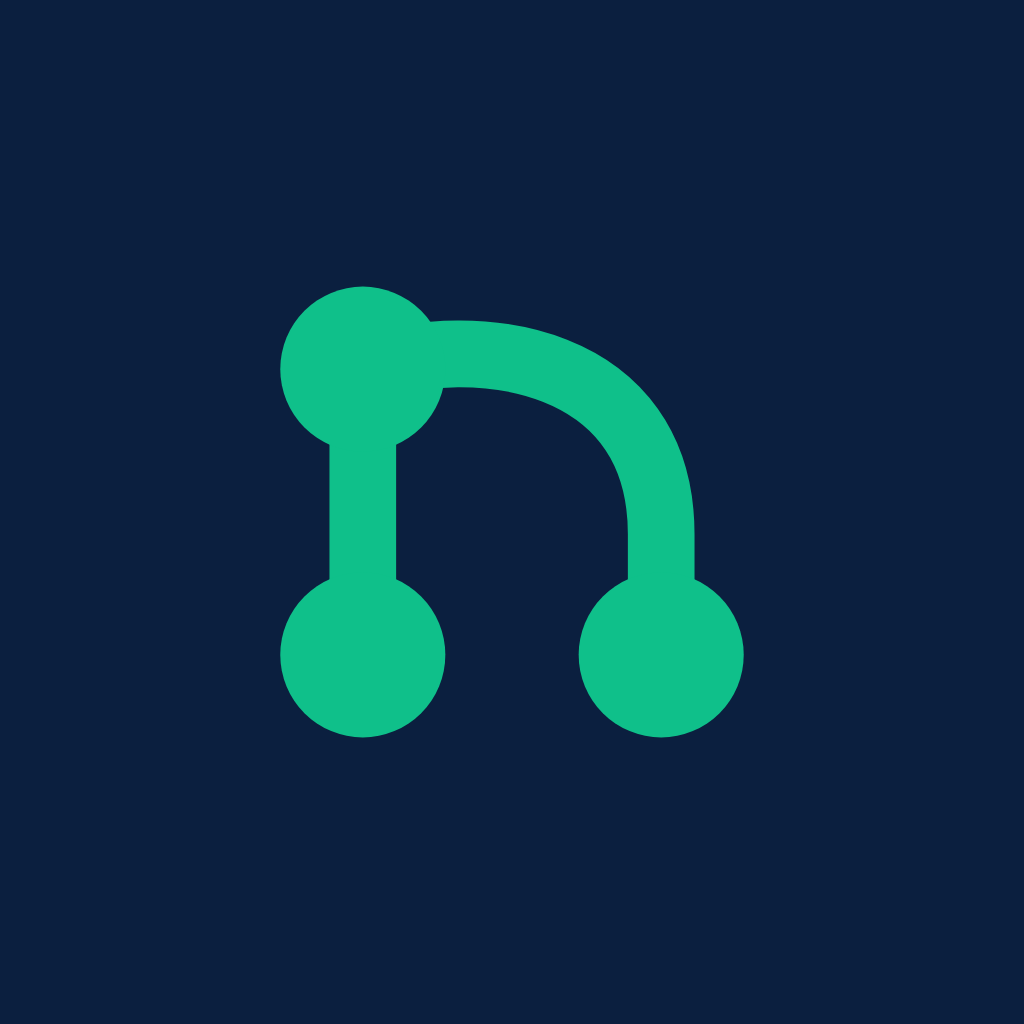
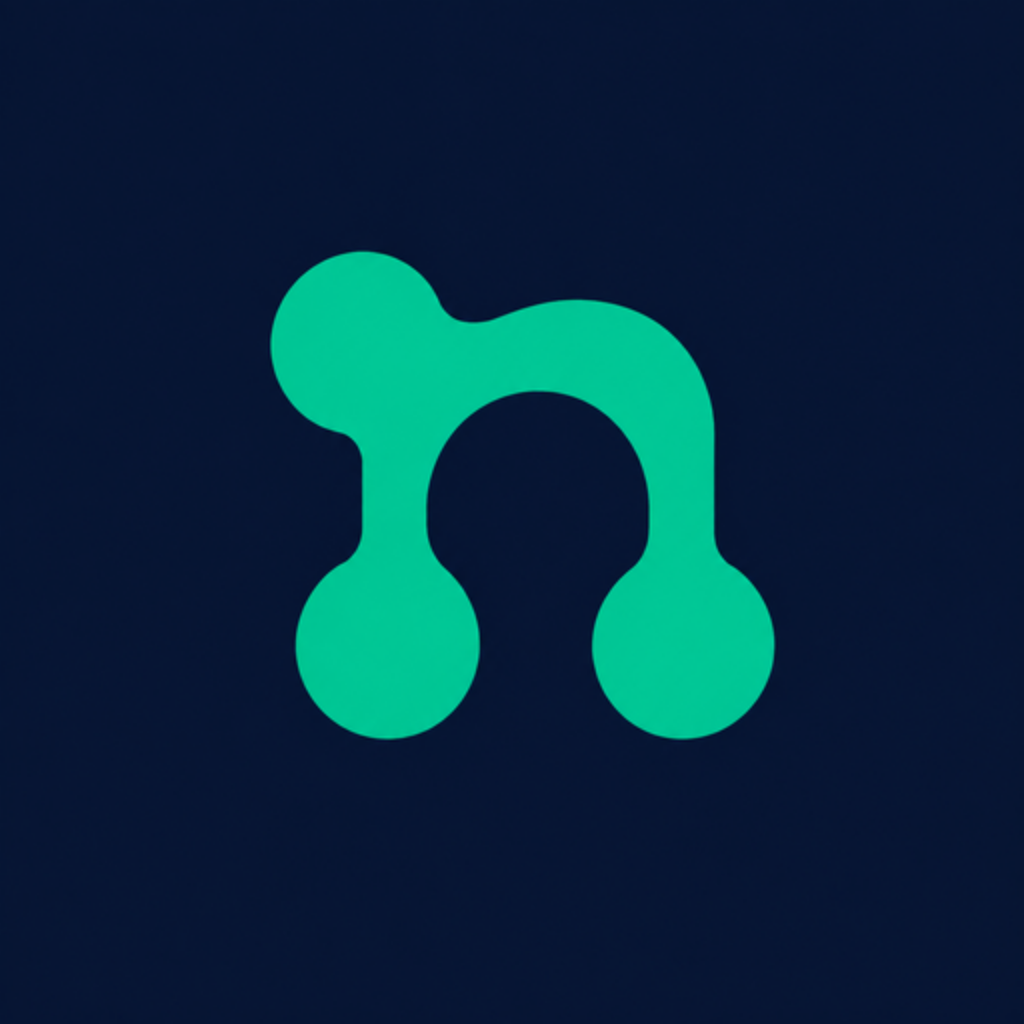
Use the real NestConnect artwork everywhere
The mark, the lockup and the app tile arrive from design as three PNGs, and
they now live in `packages/design/brand` as the only source. Every size the
apps and the browser need is cut out of them by `tools/render-logo.mjs`: a
1024 app icon, an Android foreground padded to survive whatever mask a
launcher crops it with, three favicons, and a copy for each app to bundle.

Two things the generator does that a resize wouldn't. It trims to the ink —
the mark sits in 1254 points of canvas but is only 910 wide, so scaling it
untrimmed gives a favicon of mostly nothing, and every crop is computed from
the alpha channel rather than guessed. And it pads on purpose, because
Android will crop an adaptive icon to a circle on one phone and a squircle on
the next.

The tile behind the mark goes navy on both platforms. It was the UI green
with the old mark knocked out of it in white, and the new mark is green — the
badge in the web's rail and the tile on the sign-in screen would each have
been a green square with nothing on it. Navy is the ground the app icon
already stands on, so a home screen and a sign-in screen now show the same
object.

The colours are sampled from the artwork, not typed from memory: the green is
the commonest opaque pixel in the mark, the navy the tile's own fill.

This replaces the geometry I drew from the images when they hadn't reached
this machine as files. That was a reproduction and said so; this is the
artwork.

diff --git a/packages/design/logo.ts b/packages/design/logo.ts
@@ -1,60 +1,34 @@
 /**
- * The Nest Connect mark, as geometry rather than a picture.
+ * The brand's own colours, and where its artwork lives.
  *
- * An `n` drawn in one thick stroke with a node at each of its three ends: the
- * shoulder of the letter is also the arc between two connected points, which is
- * the product in one shape — separate places, joined. It reads at 16 points and
- * at 1024, which a mark has to, because it is the favicon, the app icon, the
- * splash and the thing on the sign-in screen all at once.
+ * The mark itself is a picture, not geometry — `brand/mark.png` and its two
+ * siblings are the files as delivered, and everything the apps and the browser
+ * use is derived from them by `tools/render-logo.mjs`. That indirection is the
+ * point: before it, the web drew a chat bubble with an amber dot and the phone
+ * drew three nested bowls, two hand-maintained logos for one product, neither
+ * aware of the other. Now there is one set of source files and every size is a
+ * build product of them.
  *
- * ## Why it lives here and not as a file
- *
- * The web and the phone both draw it, at half a dozen sizes, in two themes, and
- * before this there were *two different logos* — a speech bubble with an amber
- * dot on the web, three nested bowls on mobile. Neither knew about the other.
- * One set of numbers is what stops that happening again, and geometry travels
- * where a PNG cannot: `react-native-svg` and the DOM both take these strings
- * unchanged, and the raster assets are generated from them rather than drawn
- * separately and left to drift.
- *
- * ## The numbers
- *
- * Everything is a 100×100 box, sized so the mark's bounding box is centred in
- * it — so a caller can scale it to any size and it stays optically middled
- * without a correction. The proportions are the mark's own and are not free
- * parameters: the stroke is 0.40 of a node's diameter, the two feet stand 1.81
- * diameters apart, and the top node sits 1.73 above them. Change one and it
- * stops being the logo.
- */
-
-/** The stroke's centreline: the left stem, and the shoulder that becomes the
- *  right stem. Two subpaths, so the corner at the top node stays a join of two
- *  round caps rather than a mitre. */
-export const MARK_STEM = "M26.5 27.5V72.5";
-export const MARK_ARCH = "M26.5 27.5C44.5 21.5 73.5 25.5 73.5 53.5V72.5";
-
-/** Where the three nodes sit, in the same box. */
-export const MARK_NODES = [
-  { cx: 26.5, cy: 27.5 },
-  { cx: 26.5, cy: 72.5 },
-  { cx: 73.5, cy: 72.5 },
-] as const;
-
-/** A node's radius, and the width of the stroke between them. The stroke is
- *  deliberately narrower — the waist where one meets the other is what makes
- *  them read as joined points rather than as a single fat letter. */
-export const MARK_NODE_R = 13;
-export const MARK_STROKE = 10.5;
-
-/**
- * The brand's own colours, which are not the UI's.
- *
- * `colors.brand` is tuned to carry small green text and a filled button against
- * an app surface; a logo is a logo and keeps its own value in every context,
- * including on someone else's white page. The navy is the wordmark's, and the
- * ground the app icon stands on.
+ * These values are sampled from that artwork rather than typed from memory —
+ * the green is the commonest opaque pixel in the mark, the navy is the tile the
+ * app icon stands on.
  */
 export const BRAND = {
-  green: "#0FC08A",
-  navy: "#0B1F3F",
+  /** The mark's green. Not `colors.brand`, which is tuned for small UI text and
+   *  filled buttons against an app surface; a logo keeps its own value in every
+   *  context, including on somebody else's white page. */
+  green: "#02D6A2",
+  /** The ground under the app icon, and under the mark wherever it needs a tile
+   *  of its own — the web's rail badge, the Apple touch icon. */
+  navy: "#071634",
+} as const;
+
+/**
+ * Where the derived artwork ends up, for anything that needs to name a file
+ * rather than import one. Kept beside the colours so the two cannot drift.
+ */
+export const BRAND_ASSETS = {
+  /** Web, served from `public/`. */
+  mark: "/logo-mark.png",
+  lockup: "/logo-lockup.png",
 } as const;

diff --git a/apps/mobile/src/components/NestMark.tsx b/apps/mobile/src/components/NestMark.tsx
@@ -1,36 +1,31 @@
-import { View } from "react-native";
-import Svg, { Circle, Defs, Path, RadialGradient, Rect, Stop } from "react-native-svg";
-import {
-  BRAND,
-  MARK_ARCH,
-  MARK_NODES,
-  MARK_NODE_R,
-  MARK_STEM,
-  MARK_STROKE,
-} from "@ding/design/logo";
+import { Image, View } from "react-native";
+import Svg, { Circle, Defs, RadialGradient, Rect, Stop } from "react-native-svg";
 
 /**
- * The app's mark, from the geometry the web draws from too.
+ * The app's mark.
  *
- * It used to be three nested bowls here and a speech bubble with an amber dot
- * on the web — two different logos for one product, neither aware of the other,
- * which is what happens when a mark is drawn twice instead of shared once.
- * `@ding/design/logo` is now the only place the shape exists, and the app icon
- * and favicon are generated from the same numbers rather than exported by hand.
+ * It used to be three nested bowls drawn here in SVG, while the web drew a chat
+ * bubble with an amber dot — two hand-maintained logos for one product, neither
+ * aware of the other. Both now come from the artwork in
+ * `packages/design/brand`, and every size either platform needs is cut from it
+ * by `tools/render-logo.mjs` rather than redrawn.
  *
- * `color` defaults to the brand green rather than white: a logo holds its value
- * wherever it lands. Pass a colour only for somewhere it genuinely has to be
- * monochrome, like a knockout on a solid brand tile.
+ * The mark is a fixed green and carries no `color`: it is the same green on the
+ * sign-in tile, in a launcher and on a browser tab, which is what a logo is for.
+ * Anywhere it needs a ground of its own, the ground is the brand's navy — see
+ * the sign-in screen, and the app icon it matches.
  */
-export function NestMark({ size = 28, color = BRAND.green }: { size?: number; color?: string }) {
+export function NestMark({ size = 28 }: { size?: number }) {
   return (
-    <Svg width={size} height={size} viewBox="0 0 100 100" fill="none">
-      <Path d={MARK_STEM} stroke={color} strokeWidth={MARK_STROKE} strokeLinecap="round" />
-      <Path d={MARK_ARCH} stroke={color} strokeWidth={MARK_STROKE} strokeLinecap="round" />
-      {MARK_NODES.map((n) => (
-        <Circle key={`${n.cx}-${n.cy}`} cx={n.cx} cy={n.cy} r={MARK_NODE_R} fill={color} />
-      ))}
-    </Svg>
+    <Image
+      source={require("../../assets/logo-mark.png")}
+      style={{ width: size, height: size }}
+      // The source is square and trimmed to the mark, so `contain` only ever
+      // letterboxes by a rounding error — but it is the difference between a
+      // mark that stays itself at any size and one that stretches.
+      resizeMode="contain"
+      accessibilityIgnoresInvertColors
+    />
   );
 }
 

diff --git a/apps/web/src/lib/icons.tsx b/apps/web/src/lib/icons.tsx
@@ -26,14 +26,7 @@ import {
   tickIcons,
   type IconSpec,
 } from "@ding/design/icons";
-import {
-  BRAND,
-  MARK_ARCH,
-  MARK_NODES,
-  MARK_NODE_R,
-  MARK_STEM,
-  MARK_STROKE,
-} from "@ding/design/logo";
+import { BRAND_ASSETS } from "@ding/design/logo";
 
 /** One glyph: outline first, then any solid shapes on top of it. */
 function Glyph({ spec, fillOverride }: { spec: IconSpec; fillOverride?: string }): JSX.Element {
@@ -182,27 +175,17 @@ export function TeamGlyph({ icon }: { icon?: string | null }): JSX.Element {
 /* ── the mark ────────────────────────────────────────────────────────────── */
 
 /**
- * The mark, from the shared geometry.
+ * The mark.
  *
- * It draws in `BRAND.green` rather than `currentColor`, which is the one place
- * in this file that ignores the surrounding text colour on purpose: the logo is
- * a fixed value in every context — light theme, dark theme, and the white page
- * of whatever embeds a screenshot of it. Inheriting made it a grey smudge in
- * the icon rail and a green one on the login screen, which is two logos again.
+ * An `img` rather than inline SVG because the artwork is a picture — it is the
+ * file design delivered, in `packages/design/brand`, and `tools/render-logo.mjs`
+ * cuts the sizes out of it. Redrawing it in code is exactly how this app came to
+ * have one logo on the web and a different one on the phone.
+ *
+ * No colour prop and nothing inherited: a logo is the same green on a rail
+ * badge, a login screen and a browser tab. Where it needs a ground of its own,
+ * `.brandmark` supplies the brand's navy — the same navy as the app icon.
  */
 export const Logo = (): JSX.Element => (
-  <svg viewBox="0 0 100 100" fill="none">
-    <g
-      fill="none"
-      stroke={BRAND.green}
-      strokeWidth={MARK_STROKE}
-      strokeLinecap="round"
-    >
-      <path d={MARK_STEM} />
-      <path d={MARK_ARCH} />
-    </g>
-    {MARK_NODES.map((n) => (
-      <circle key={`${n.cx}-${n.cy}`} cx={n.cx} cy={n.cy} r={MARK_NODE_R} fill={BRAND.green} />
-    ))}
-  </svg>
+  <img src={BRAND_ASSETS.mark} alt="" aria-hidden="true" draggable={false} />
 );

diff --git a/apps/web/index.html b/apps/web/index.html
@@ -7,13 +7,13 @@
          (kept in sync with the theme by syncThemeColor()). -->
     <meta name="theme-color" content="#FFFFFF" />
     <!-- There was no site icon at all before this, so every tab showed the
-         browser's blank page glyph. SVG first for anything modern — it stays
-         sharp at whatever size the browser asks for, including the 16px
-         favourites bar — with a PNG behind it for the ones that don't take SVG,
-         and a 180 for an iOS home screen, which composites onto white and so
-         needs the mark on its own tile rather than floating. -->
-    <link rel="icon" href="/favicon.svg" type="image/svg+xml" />
+         browser's blank page glyph. Three sizes, all
+         cut from the delivered artwork by tools/render-logo.mjs: a 32 for the
+         tab, a 64 for denser displays, and a 180 for an iOS home screen — which
+         composites onto white, so that one is the mark on its own navy tile
+         rather than floating. -->
     <link rel="icon" href="/favicon-32.png" sizes="32x32" type="image/png" />
+    <link rel="icon" href="/favicon-64.png" sizes="64x64" type="image/png" />
     <link rel="apple-touch-icon" href="/favicon-180.png" />
     <title>Nest Connect</title>
   </head>

diff --git a/apps/web/src/styles.css b/apps/web/src/styles.css
@@ -87,9 +87,13 @@ input,textarea{font:inherit}
 /* icon rail — matte structural surface, circular controls */
 /* .rail container, .rail-avatar, .avatar-me + presence dot → Tailwind utilities
    in IconRail.tsx. .brandmark and .railbtn stay (shared primitives). */
-.brandmark{width:34px;height:34px;border-radius:var(--r-12);background:var(--brand);
-  display:grid;place-items:center;color:#fff;box-shadow:0 6px 16px -8px var(--brand-ring);margin-bottom:10px}
-.brandmark svg{width:19px;height:19px}
+/* The brand's navy, not the UI green. The mark is green artwork now, and green
+   on green is nothing — this was a green tile with a white mark knocked out of
+   it. Navy is also what the app icon stands on, so the badge in the rail and the
+   icon on a home screen are recognisably the same object. */
+.brandmark{width:34px;height:34px;border-radius:var(--r-12);background:#071634;
+  display:grid;place-items:center;box-shadow:0 6px 16px -8px rgba(7,22,52,.5);margin-bottom:10px}
+.brandmark img{width:22px;height:22px;object-fit:contain}
 .railbtn{width:40px;height:40px;position:relative}
 .railbtn svg{width:20px;height:20px}
 .railbtn.active{background:var(--sel);color:var(--brand-strong);box-shadow:none}

diff --git a/apps/mobile/app/sign-in.tsx b/apps/mobile/app/sign-in.tsx
@@ -8,6 +8,7 @@ import { api, seedIdentity, type MeResponse } from "@ding/client";
 import type { TwoFactorChallenge } from "@ding/schemas";
 import { Button } from "../src/components/Button";
 import { Field } from "../src/components/Field";
+import { BRAND } from "@ding/design/logo";
 import { AuthGlow, NestMark } from "../src/components/NestMark";
 import { rowIn } from "../src/motion";
 import { saveSession } from "../src/session";
@@ -119,8 +120,12 @@ export default function SignIn() {
         <Animated.View
           entering={ZoomIn.springify().damping(16).stiffness(220).mass(0.8).reduceMotion(ReduceMotion.System)}
           style={{
-            backgroundColor: c.brand,
-            shadowColor: c.brand,
+            // The brand's navy, not the UI's green: the mark is green now, and
+            // green on green is nothing. This is the ground the app icon uses,
+            // so the tile someone taps to open the app and the tile that greets
+            // them inside it are the same object.
+            backgroundColor: BRAND.navy,
+            shadowColor: BRAND.navy,
             shadowOpacity: 0.32,
             shadowRadius: 20,
             shadowOffset: { width: 0, height: 8 },
